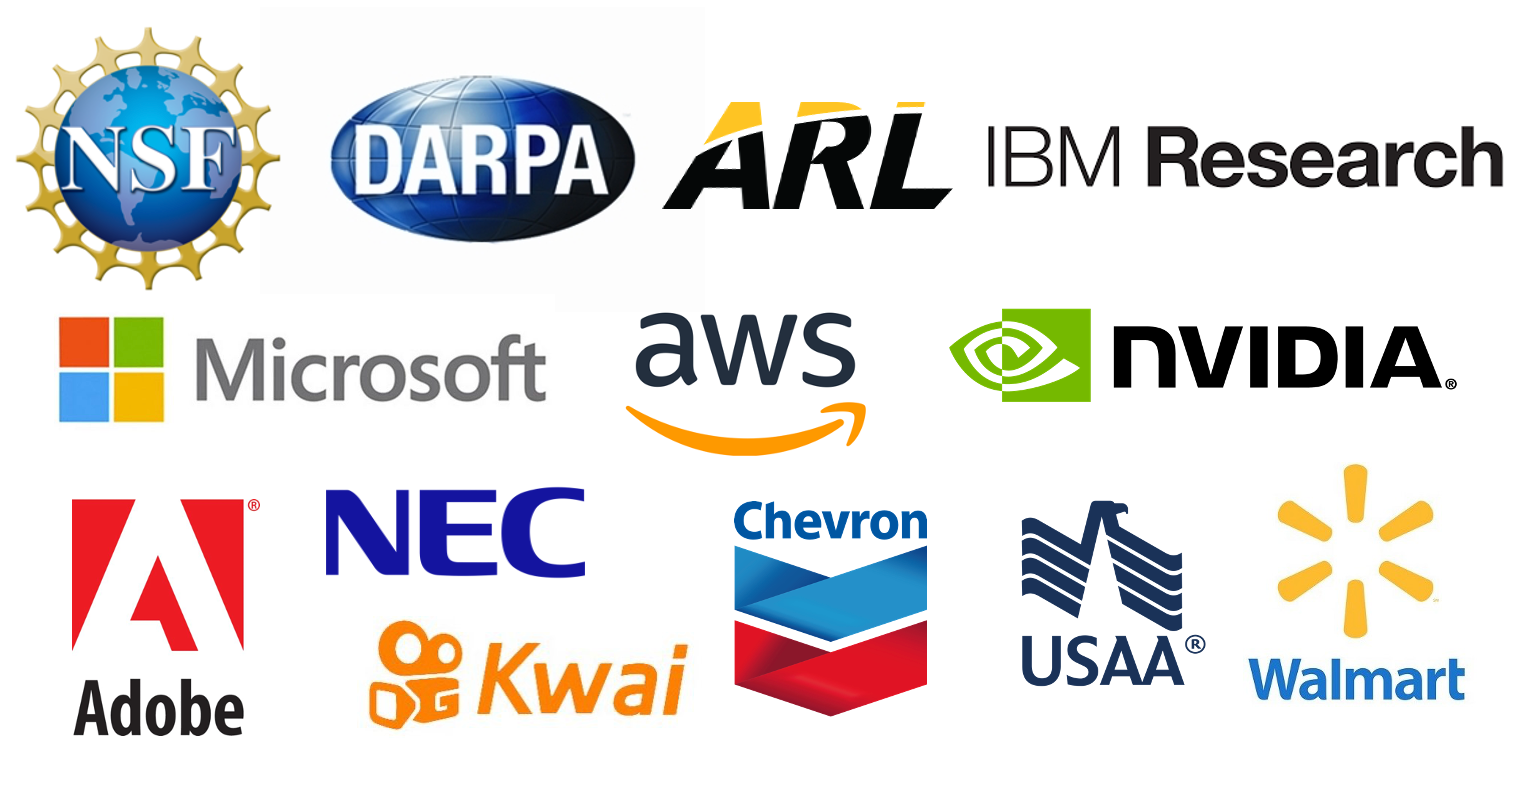
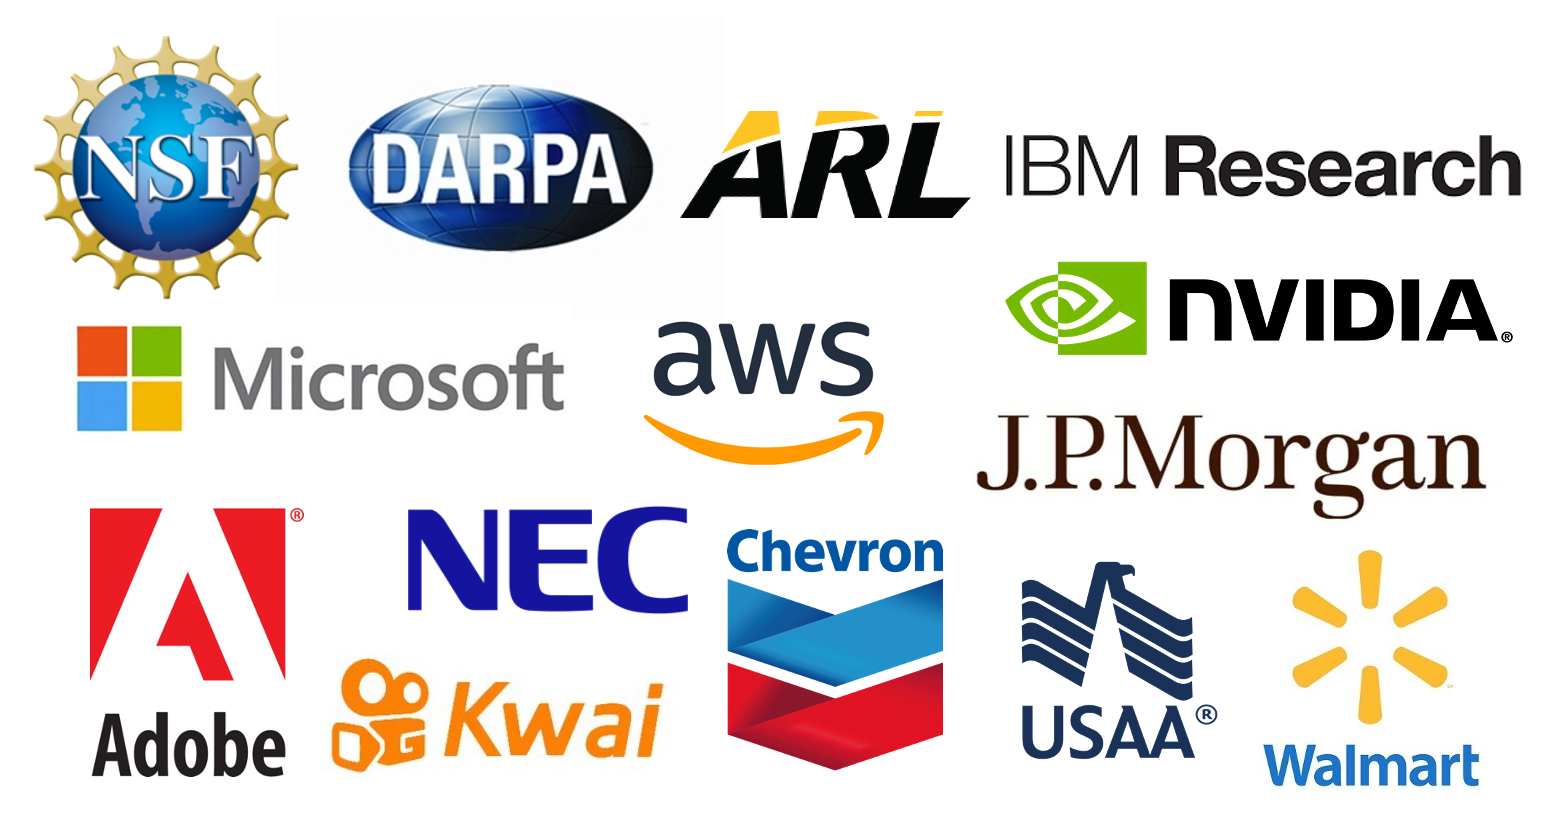
new

diff --git a/prospective_students.html b/prospective_students.html
@@ -181,7 +181,7 @@
                 </div>
                 <div class="trend-entry d-flex">
                     <div class="trend-contents">
-                        <p>Professor Zhangyang “Atlas” Wang <a href="https://scholar.google.com/citations?user=pxFyKAIAAAAJ&hl=en">[Google Scholar]</a> is currently an Assistant Professor of Electrical and Computer Engineering at UT Austin. He was an Assistant Professor of Computer Science and Engineering, at the Texas A&M University, from 2017 to 2020. He received his Ph.D. degree in ECE from UIUC in 2016, advised by Professor Thomas S. Huang; and his B.E. degree in EEIS from USTC in 2012. Prof. Wang is broadly interested in the fields of machine learning, computer vision, optimization, and their interdisciplinary applications. His latest interests focus on automated machine learning (AutoML), learning-based optimization, machine learning robustness, and efficient deep learning. His research is gratefully supported by NSF, DARPA, ARL/ARO, as well as a few more industry and university grants. He is an elected technical committee member of IEEE MLSP; an associate editor of IEEE TCSVT (in which capacity he received the 2020 IEEE TCSVT Best Associate Editor Award); and frequently serves as area chairs, guest editors, invited speakers, various panelist positions and reviewers. He has received many research awards and scholarships, including most recently an ARO Young Investigator award, an IBM Faculty Research Award, an Amazon Research Award (AWS AI), an Adobe Data Science Research Award, a Young Faculty Fellow of TAMU, and four research competition prizes from CVPR/ICCV/ECCV. </p>
+                        <p>Professor Zhangyang “Atlas” Wang <a href="https://scholar.google.com/citations?user=pxFyKAIAAAAJ&hl=en">[Google Scholar]</a> is currently an Assistant Professor of Electrical and Computer Engineering at UT Austin. He was an Assistant Professor of Computer Science and Engineering, at the Texas A&M University, from 2017 to 2020. He received his Ph.D. degree in ECE from UIUC in 2016, advised by Professor Thomas S. Huang; and his B.E. degree in EEIS from USTC in 2012. Prof. Wang is broadly interested in the fields of machine learning, computer vision, optimization, and their interdisciplinary applications. His latest interests focus on automated machine learning (AutoML), learning-based optimization, machine learning robustness, and efficient deep learning. His research is gratefully supported by NSF, DARPA, ARL/ARO, as well as a few more industry and university grants. He is an elected technical committee member of IEEE MLSP; an associate editor of IEEE TCSVT (in which capacity he received the 2020 IEEE TCSVT Best Associate Editor Award); and frequently serves as area chairs, guest editors, invited speakers, various panelist positions and reviewers. He has received many research awards and scholarships, including most recently an ARO Young Investigator award, an IBM Faculty Research Award, a J. P. Morgan Faculty Research Award, an Amazon Research Award (AWS AI), an Adobe Data Science Research Award, a Young Faculty Fellow of TAMU, and four research competition prizes from CVPR/ICCV/ECCV. </p>
                     </div>
                 </div>
                 <div class="section-title" style="margin-bottom:20px">

diff --git a/index.html b/index.html
@@ -164,11 +164,18 @@
                 </div>
                 <div class="trend-entry d-flex">
                     <div class="trend-contents">
+                        <b style="color:rgb(68, 68, 68)">[Jun. 2021]</b>
+                        <ul style="margin-bottom:5px">
+                            <li> Dr. Wang is grateful to recevie the 2021 J. P. Morgan Faculty Research Award </li>
+                        </ul>
+
+
                           <b style="color:rgb(68, 68, 68)">[May. 2021]</b>
                         <ul style="margin-bottom:5px">
                             <li> 5 ICML'21 (graph contrastive learning + homotopy attack + imbalanced contrastive learning +  graph lottery ticket + data-efficient lottery ticket) accepted </li>
                             <li> 1 KDD'21 (federated learning debiasing) accepted </li>
                             <li> 1 ACL'21 (EarlyBERT) accepted </li>
+                            <li> Our group is grateful to be selected into the <a href="https://www.nvidia.com/en-us/industries/higher-education-research/applied-research-program/">NVIDIA Applied Research Accelerator Program</a> </li>
                         </ul>
 
                         <b style="color:rgb(68, 68, 68)">[Apr. 2021]</b>
@@ -223,6 +230,7 @@
                         </ul>
                         <b style="color:rgb(68, 68, 68)">[Sep. 2020]</b>
                         <ul style="margin-bottom:5px">
+                            <li> Dr. Wang is grateful to recevie the 2020 Adobe Data Science Research Award </li>
                             <li>8 NeurIPS'20 (learning to optimize + once-for-all adversarial training + BERT lottery ticket + meta learning + robust contrastive learning + graph contrastive learning + ShiftAddNet + efficient quantized training) accepted</li>
                             <li>1 IEEE Trans. PAMI (privacy-preserving visual recognition) accepted</li>
                         </ul>
@@ -252,6 +260,9 @@
                         </ul>
                         <b style="color:rgb(68, 68, 68)">[Apr. 2020]</b>
                         <ul style="margin-bottom:5px">
+                            <li> Dr. Wang is grateful to recevie the 2020 ARO Young Investigator Award (YIP) </li>
+                            <li> Dr. Wang is grateful to recevie the 2020 IBM Faculty Research Award </li>
+                            <li> Dr. Wang is grateful to recevie the 2020 Amazon Research Award (AWS AI) </li>
                             <li>2 CVPR'20 workshop (efficient triplet loss + fine-grained classification) accepted</li>
                         </ul>
                         <b style="color:rgb(68, 68, 68)">[Mar. 2020]</b>
